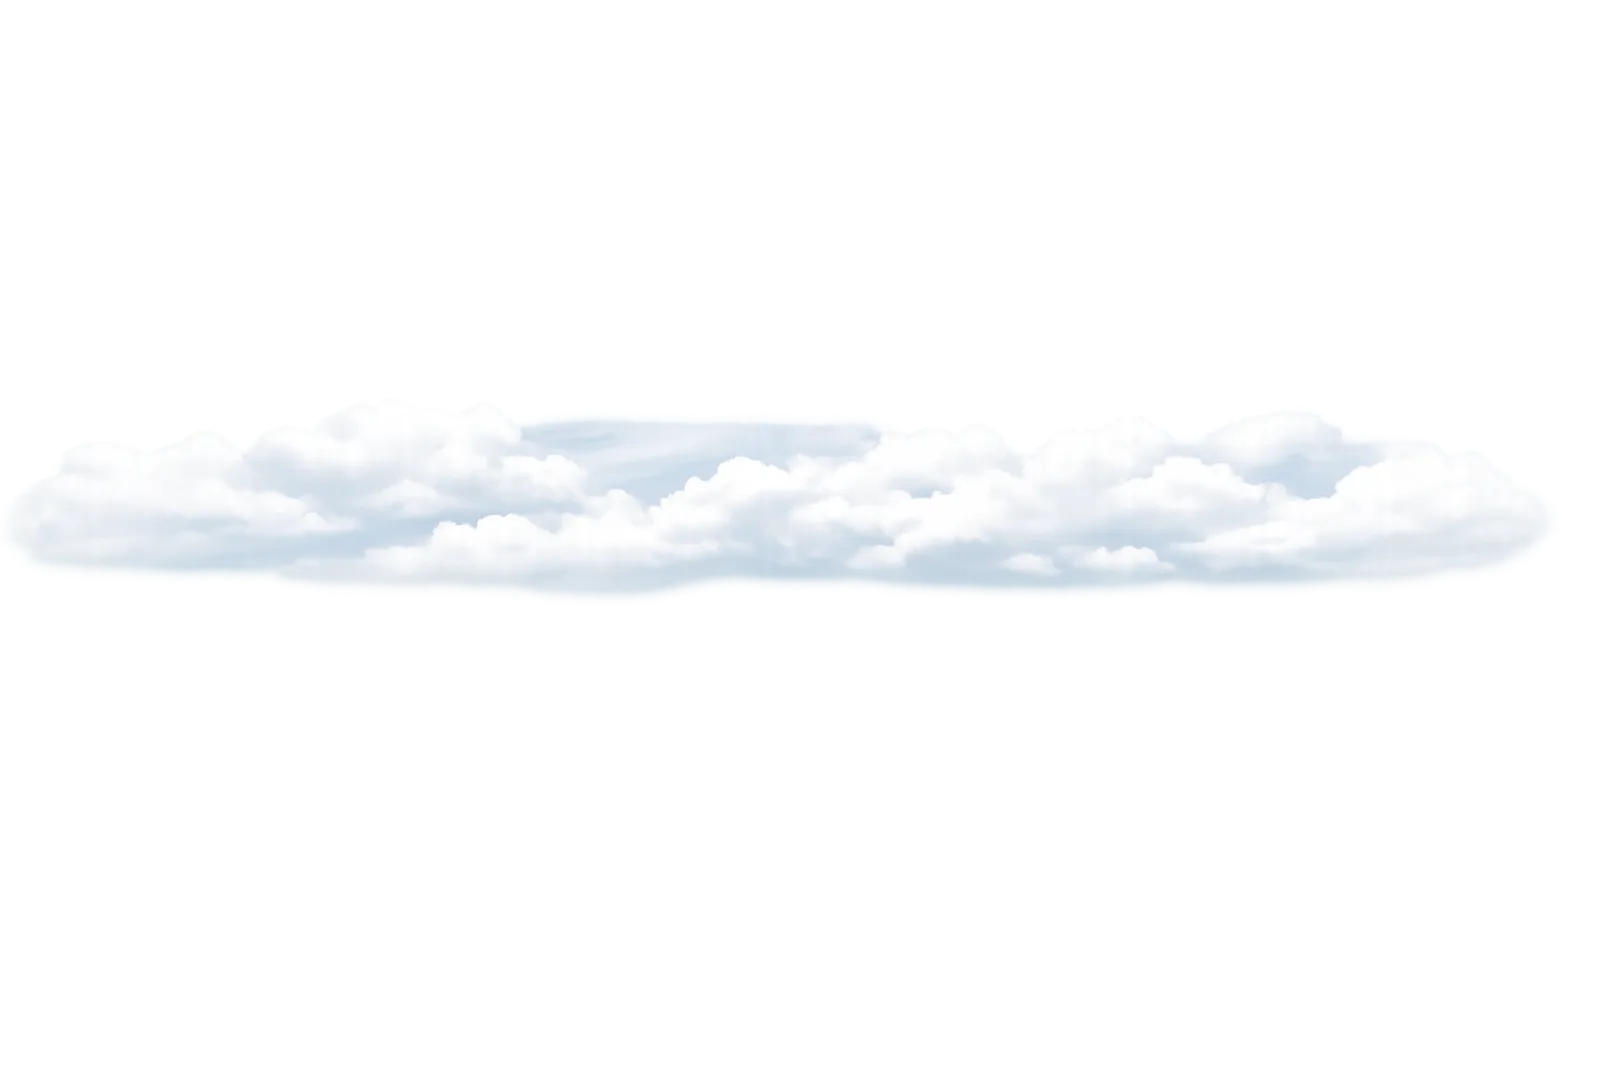
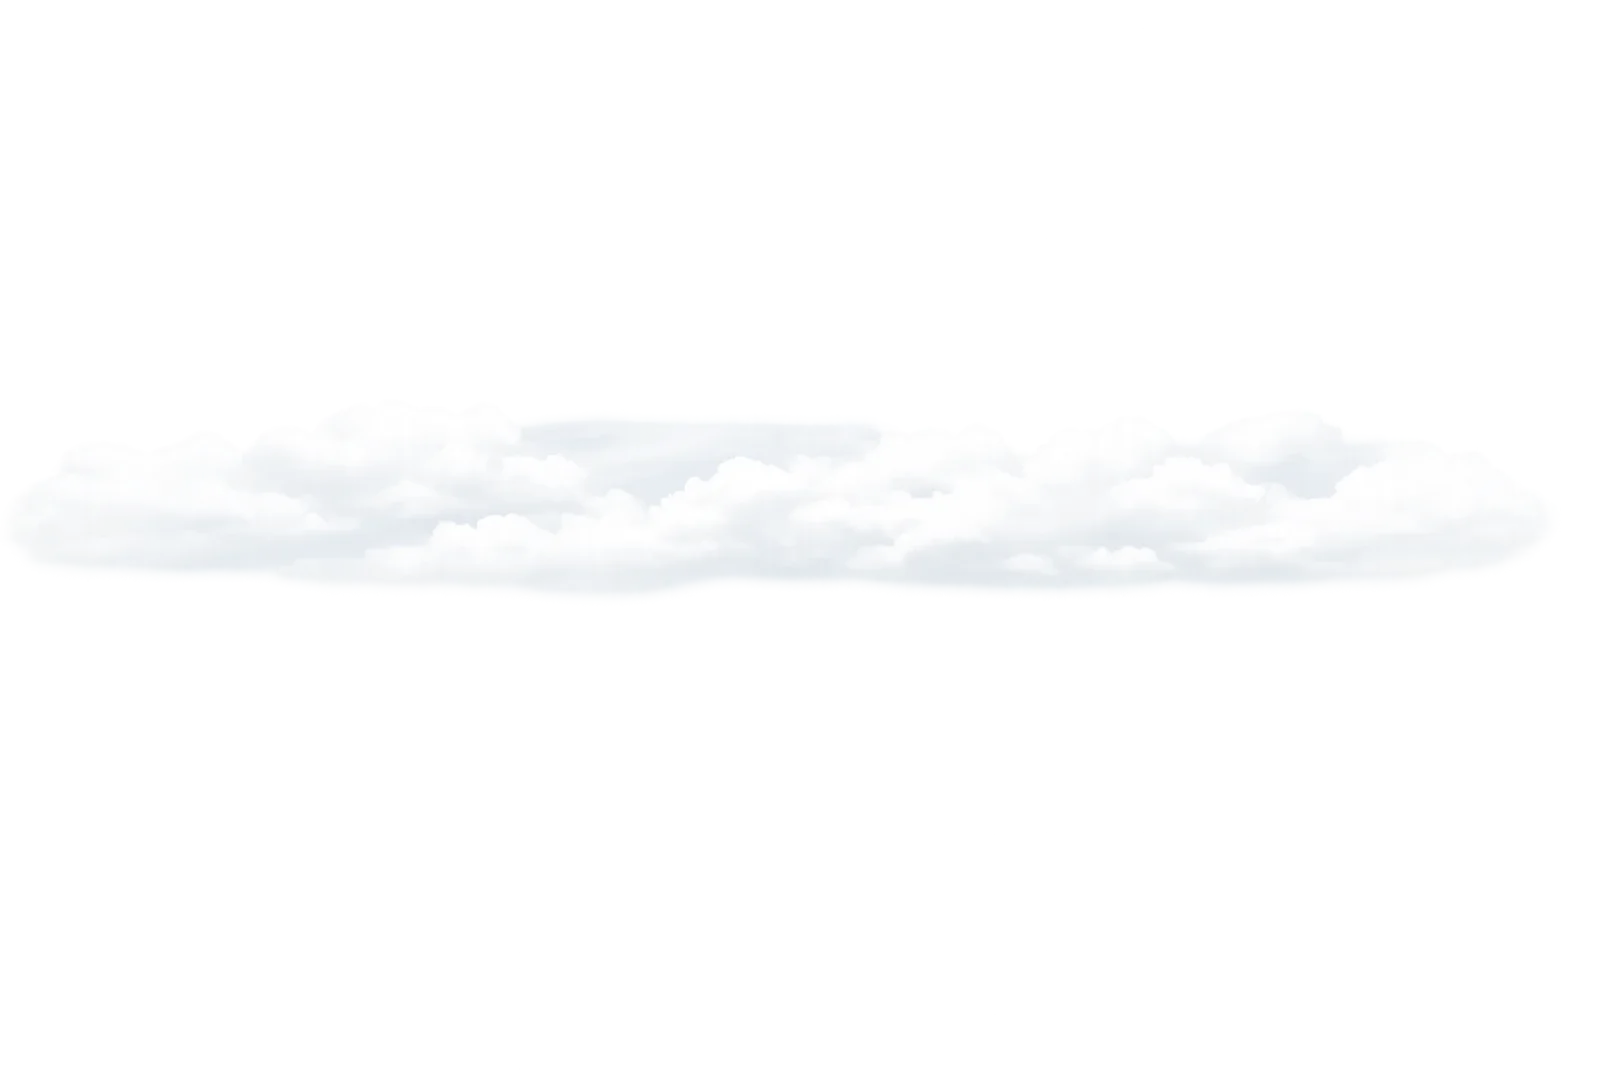
Lighten cloud artwork and sky gradient for a calmer feel

diff --git a/style.css b/style.css
@@ -49,9 +49,9 @@
   --color-accent-hover: oklch(0.45 0.15 264);
   --color-accent-soft: oklch(0.94 0.03 258);
   --color-accent-text: #fff;
-  --sky-top: oklch(0.72 0.115 252);
-  --sky-bottom: oklch(0.94 0.03 250);
-  --cloud-opacity: 0.92;
+  --sky-top: oklch(0.88 0.045 248);
+  --sky-bottom: oklch(0.975 0.012 250);
+  --cloud-opacity: 0.9;
   --shadow-sm: 0 1px 2px oklch(0.4 0.05 260 / 0.07), 0 2px 8px oklch(0.4 0.05 260 / 0.05);
   --shadow-md: 0 4px 14px oklch(0.4 0.05 260 / 0.09), 0 18px 44px oklch(0.4 0.05 260 / 0.08);
 }
@@ -69,9 +69,9 @@
   --color-accent-hover: oklch(0.79 0.12 252);
   --color-accent-soft: oklch(0.3 0.05 258);
   --color-accent-text: oklch(0.17 0.04 262);
-  --sky-top: oklch(0.32 0.075 262);
-  --sky-bottom: oklch(0.21 0.03 262);
-  --cloud-opacity: 0.3;
+  --sky-top: oklch(0.36 0.055 258);
+  --sky-bottom: oklch(0.22 0.028 262);
+  --cloud-opacity: 0.22;
   --shadow-sm: 0 1px 2px oklch(0 0 0 / 0.3);
   --shadow-md: 0 6px 20px oklch(0 0 0 / 0.35), 0 20px 50px oklch(0 0 0 / 0.3);
 }
@@ -89,9 +89,9 @@
     --color-accent-hover: oklch(0.79 0.12 252);
     --color-accent-soft: oklch(0.3 0.05 258);
     --color-accent-text: oklch(0.17 0.04 262);
-    --sky-top: oklch(0.32 0.075 262);
-    --sky-bottom: oklch(0.21 0.03 262);
-    --cloud-opacity: 0.3;
+    --sky-top: oklch(0.36 0.055 258);
+    --sky-bottom: oklch(0.22 0.028 262);
+    --cloud-opacity: 0.22;
     --shadow-sm: 0 1px 2px oklch(0 0 0 / 0.3);
     --shadow-md: 0 6px 20px oklch(0 0 0 / 0.35), 0 20px 50px oklch(0 0 0 / 0.3);
   }
@@ -1164,4 +1164,4 @@ h3 {
   color: var(--color-text-muted);
 }
 
-/* build-marker: v2 */
+/* build-marker: v3 */
